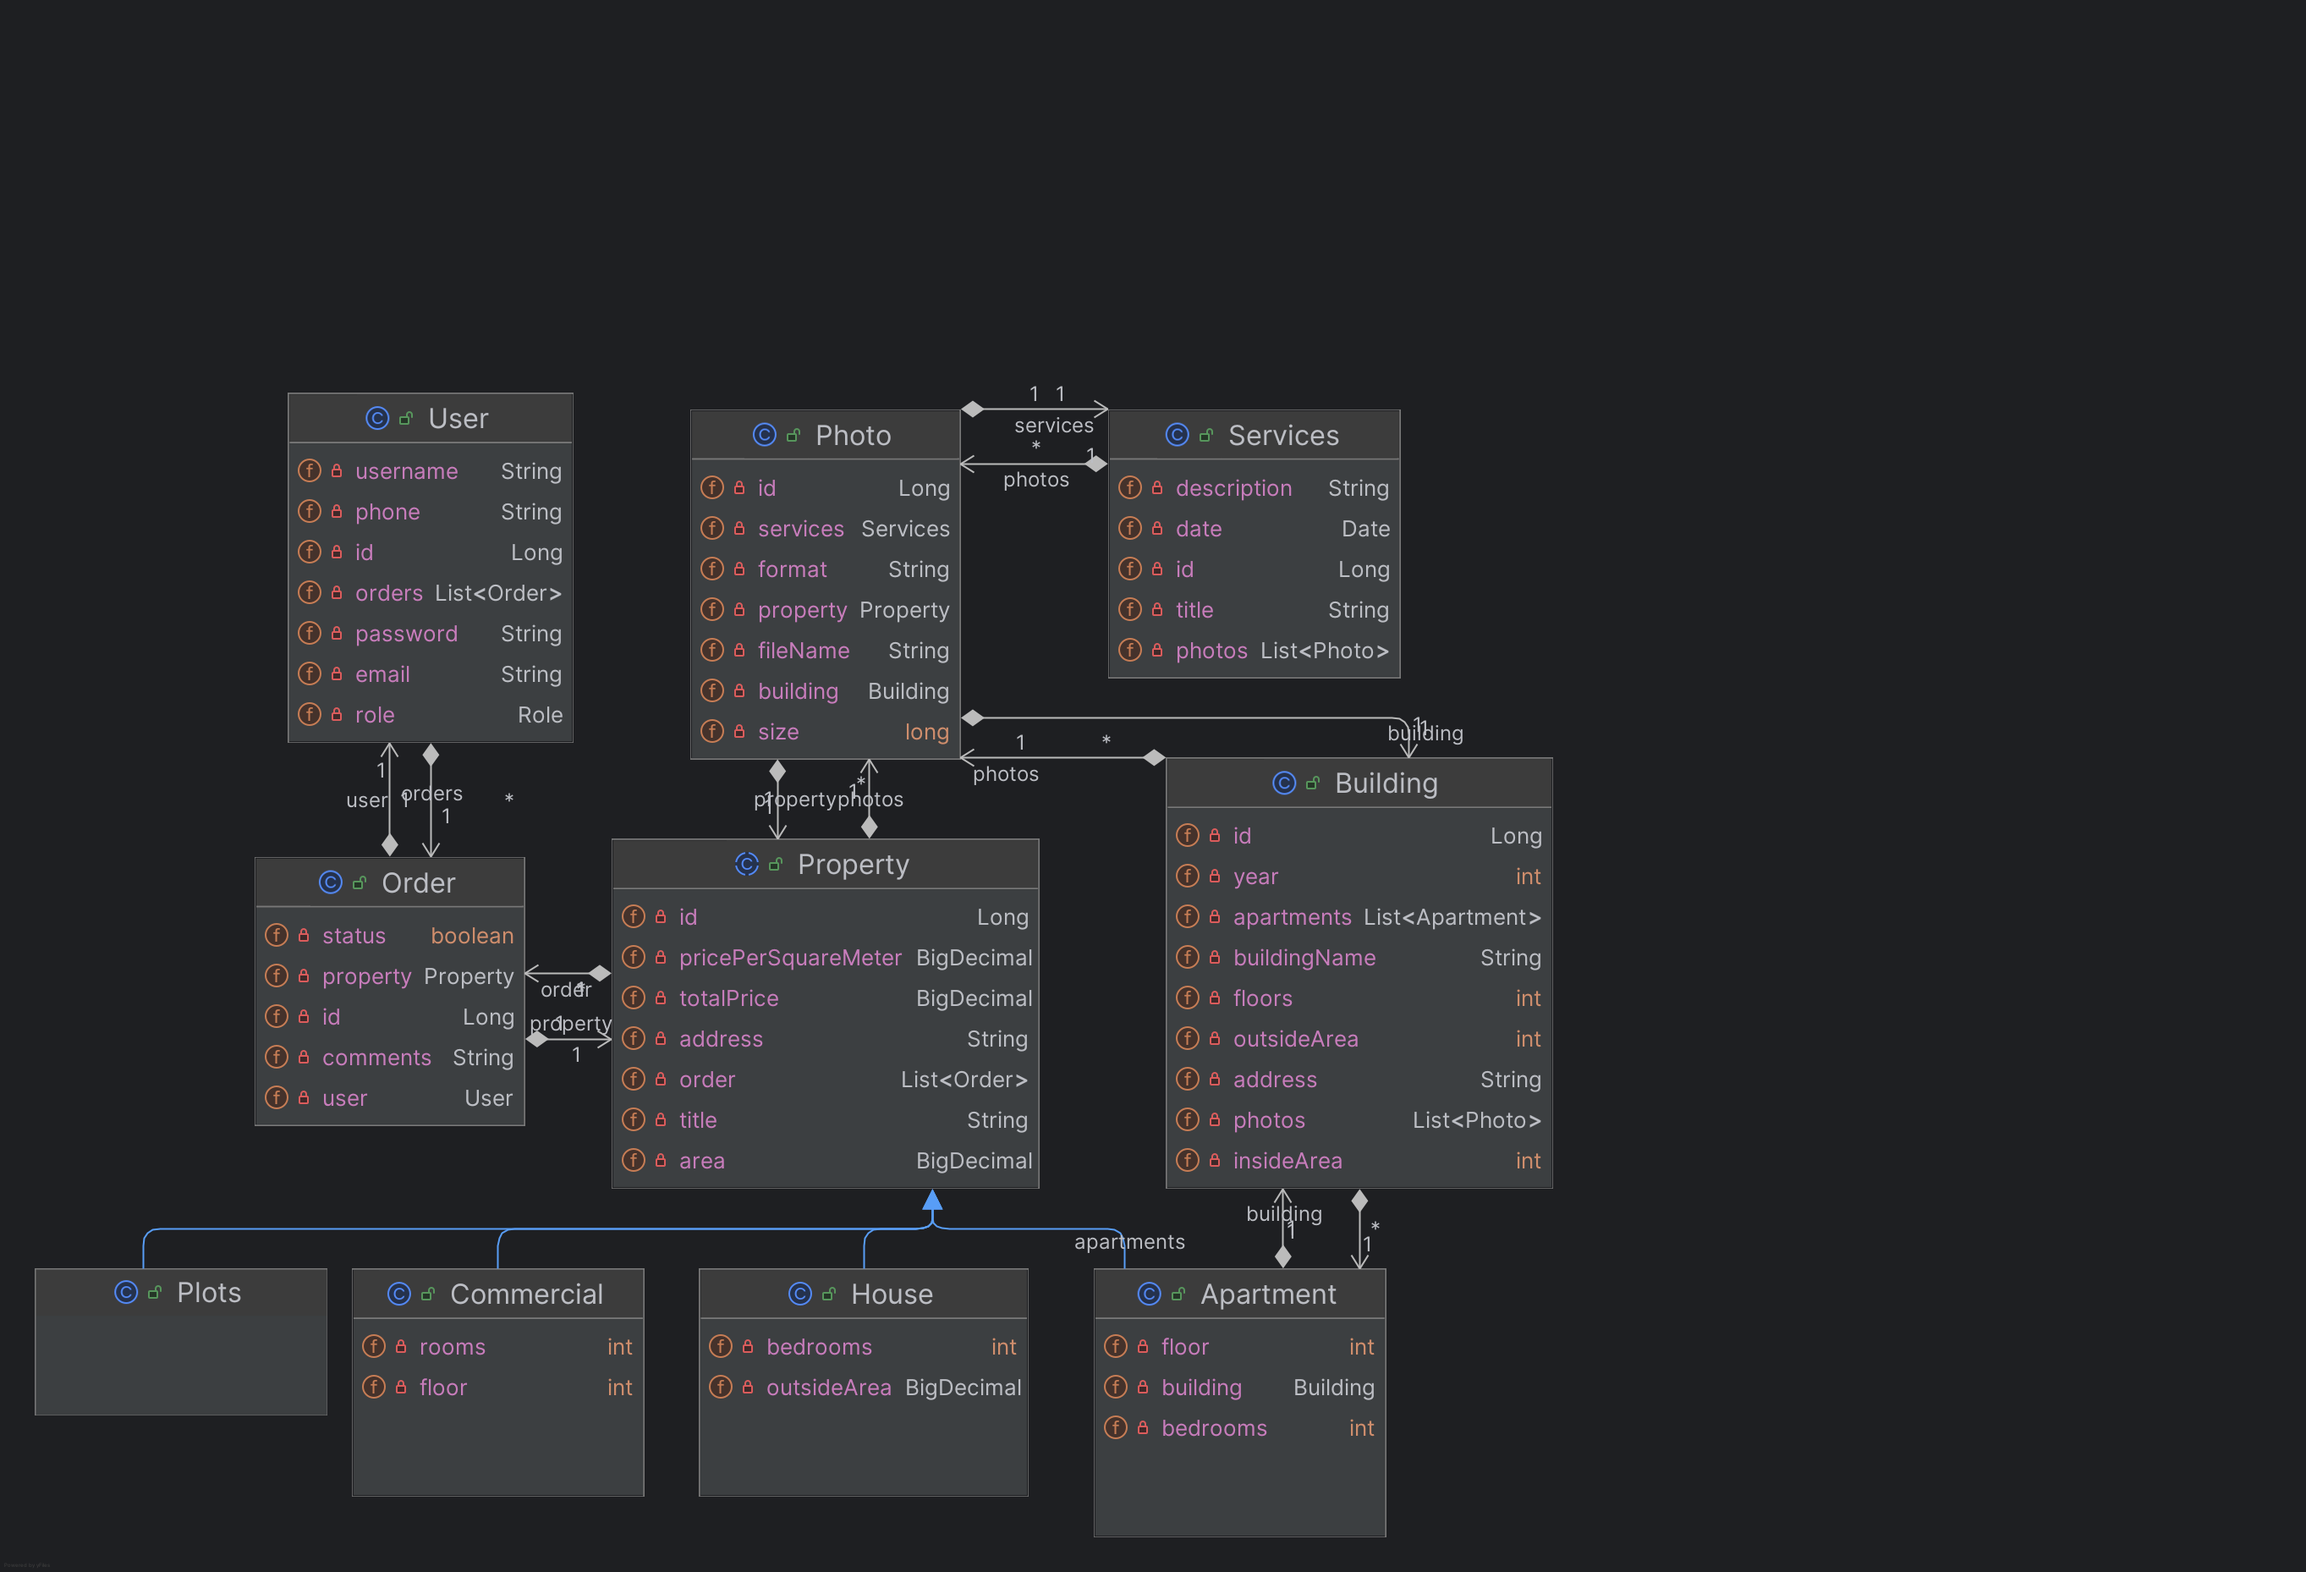
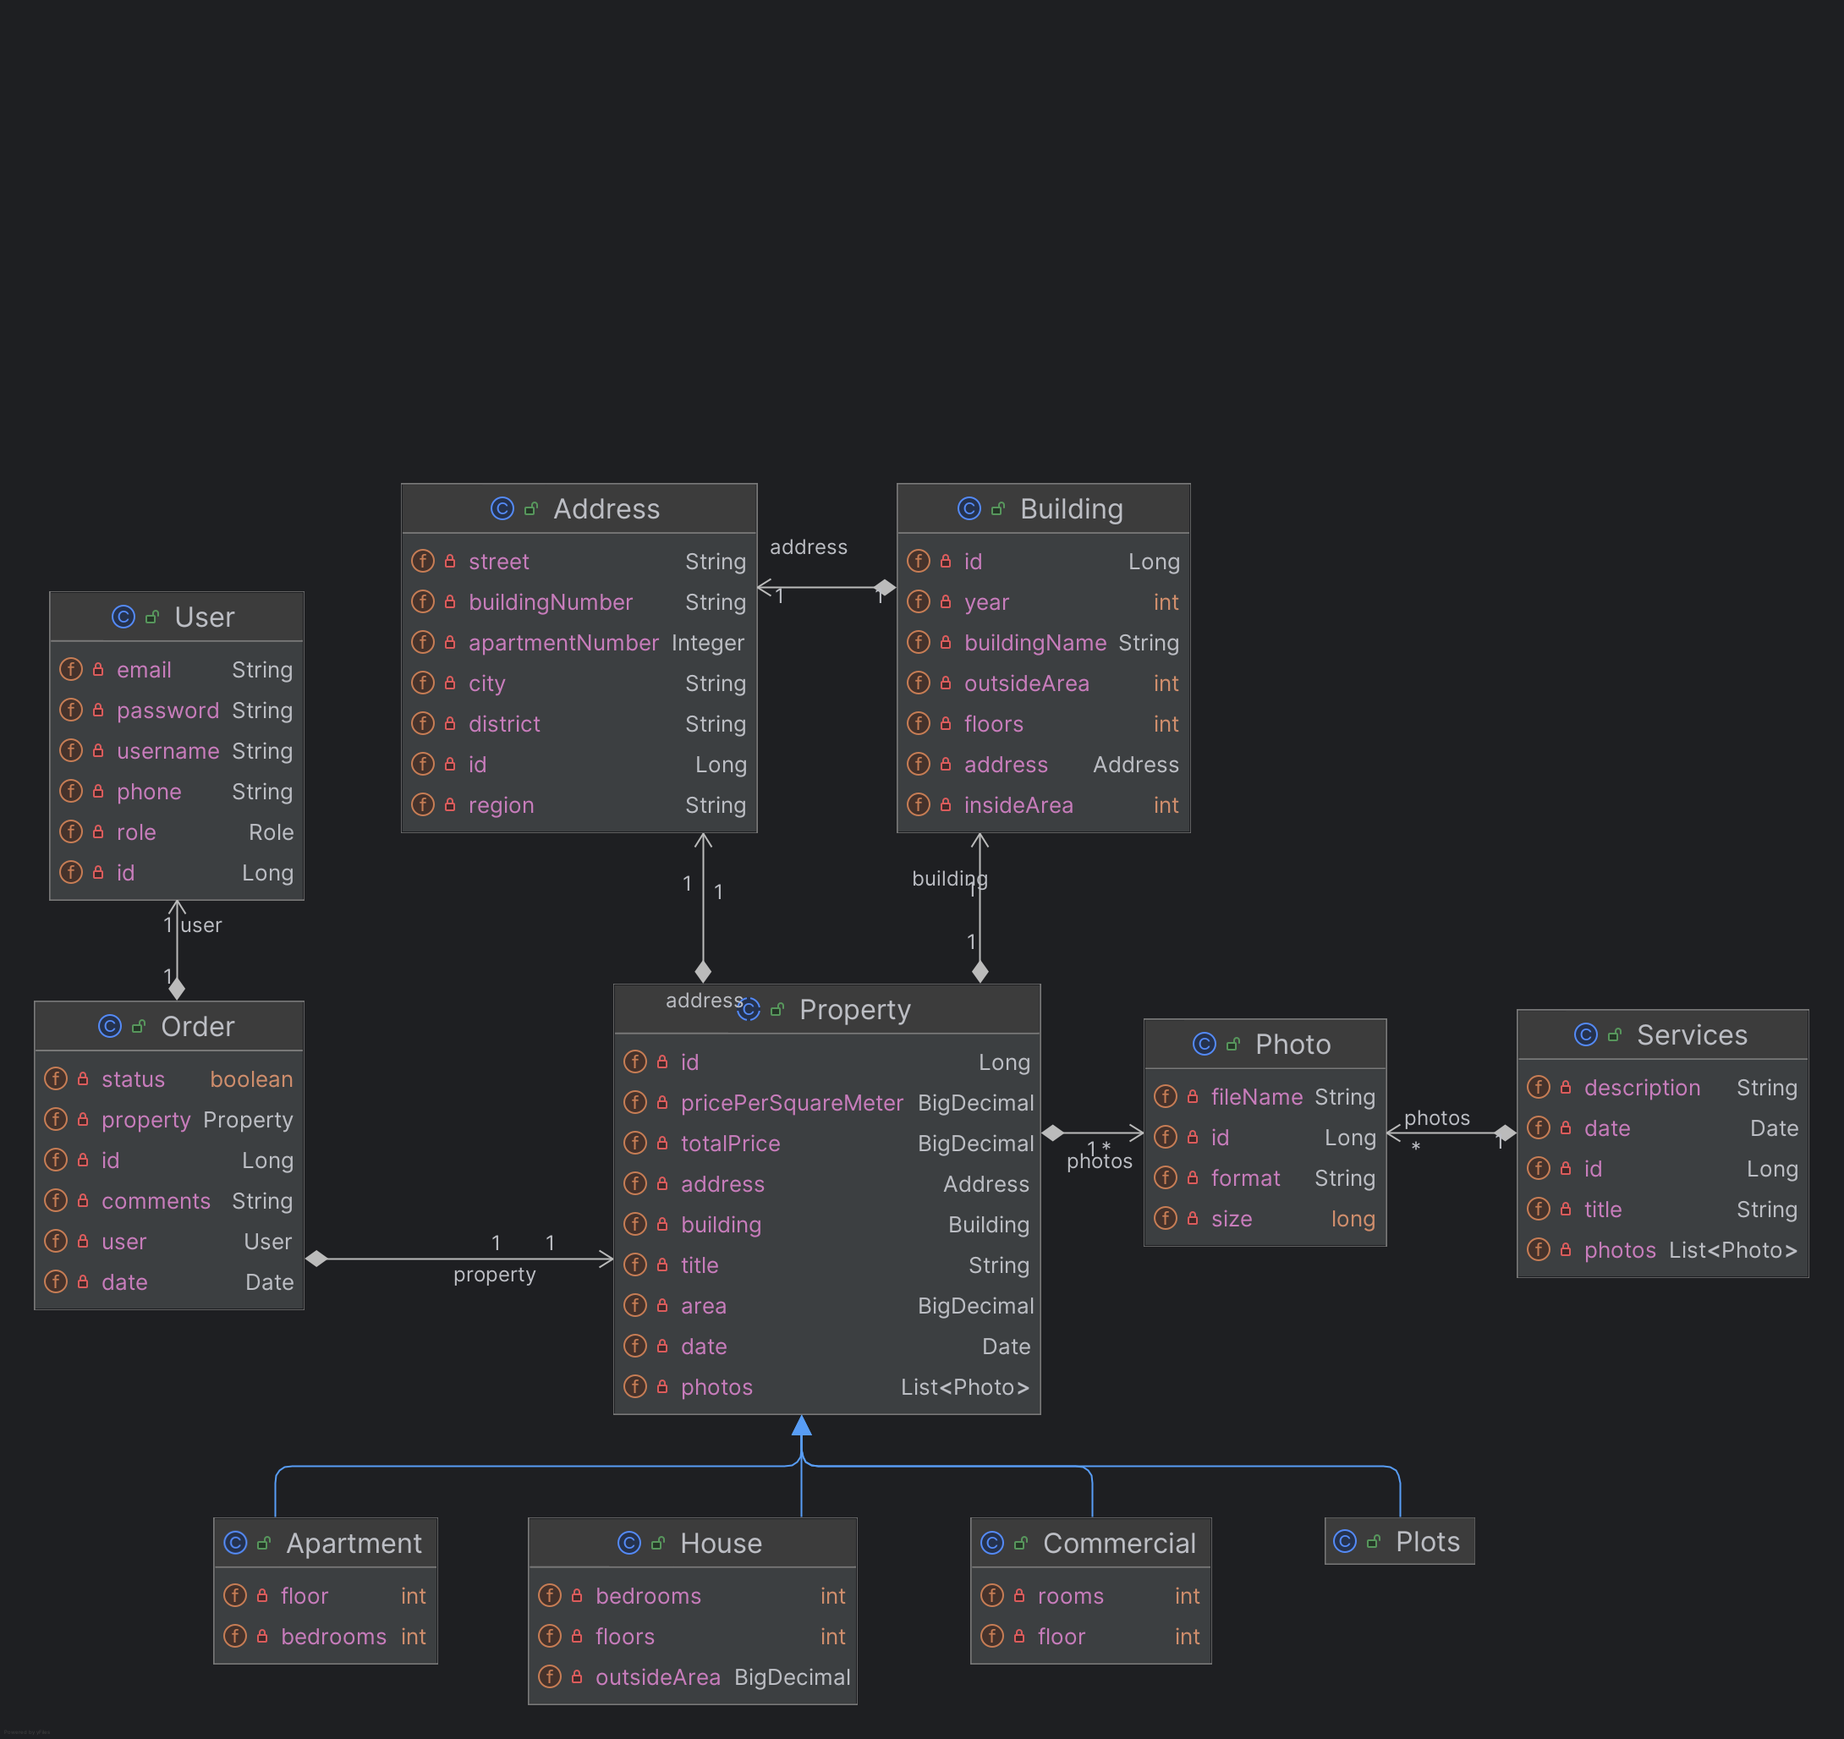
rename order -> ViewingRequest

Changed region(s): [[0.0, 0.2497, 0.9982, 0.9989], [0.7174, 0.8428, 0.811, 0.9053]]

diff --git a/src/main/java/org/example/rent/services/ViewingRequestService.java b/src/main/java/org/example/rent/services/ViewingRequestService.java
@@ -1,0 +1,69 @@
+package org.example.rent.services;
+
+import org.apache.logging.log4j.Logger;
+import org.example.rent.dto.ViewingRequestDTO;
+import org.example.rent.entity.ViewingRequest;
+import org.example.rent.exceptions.NotFoundException;
+import org.example.rent.other.CustomLogger;
+import org.example.rent.repositories.interfaces.ViewingRequestRepository;
+import org.example.rent.services.mappers.ViewingRequestMapper;
+import org.springframework.stereotype.Service;
+import org.springframework.transaction.annotation.Transactional;
+
+import java.util.List;
+import java.util.stream.Collectors;
+
+@Service
+public class ViewingRequestService {
+
+    private final ViewingRequestRepository viewingRequestRepository;
+    private final ViewingRequestMapper viewingRequestMapper;
+    private final Logger log = CustomLogger.getLog();
+
+    public ViewingRequestService(ViewingRequestRepository viewingRequestRepository, ViewingRequestMapper viewingRequestMapper) {
+        this.viewingRequestRepository = viewingRequestRepository;
+        this.viewingRequestMapper = viewingRequestMapper;
+    }
+
+    //getById(Long id)
+    public ViewingRequestDTO getById(Long id) {
+        ViewingRequest viewingRequest = viewingRequestRepository.findById(id).orElseThrow(() -> new NotFoundException("Order with id: " + id + " not found"));
+        log.info("Get order with id: " + id);
+        return viewingRequestMapper.toDtoWithRelations(viewingRequest);
+    }
+
+    //getAll()
+    public List<ViewingRequestDTO> getAll() {
+        List<ViewingRequest> viewingRequests = viewingRequestRepository.findAll();
+        log.info("Get all orders: " + viewingRequests);
+        return viewingRequests.stream().map(viewingRequestMapper::toDtoWithRelations).collect(Collectors.toList());
+    }
+
+    //save(DTO dto)
+    @Transactional
+    public void save(ViewingRequestDTO viewingRequestDTO) {
+        ViewingRequest viewingRequest = viewingRequestMapper.toEntityWithRelations(viewingRequestDTO);
+        viewingRequestRepository.save(viewingRequest);
+        log.info("Save order with id: " + viewingRequest.getId());
+    }
+
+    //delete(Long id)
+    @Transactional
+    public void delete(Long id) {
+        if (!viewingRequestRepository.existsById(id))
+            throw new NotFoundException("Order with id: " + id + " not found");
+        viewingRequestRepository.deleteById(id);
+        log.info("Delete order with id: " + id);
+    }
+
+    //update(Long id, DTO dto)
+    @Transactional
+    public void update(Long id, ViewingRequestDTO viewingRequestDTO) {
+        if (!viewingRequestRepository.existsById(id))
+            throw new NotFoundException("Order with id: " + id + " not found");
+        ViewingRequest viewingRequest = viewingRequestMapper.toEntityWithRelations(viewingRequestDTO);
+        viewingRequest.setId(id);
+        viewingRequestRepository.save(viewingRequest);
+        log.info("Update order with id: " + id);
+    }
+}

diff --git a/src/main/java/org/example/rent/services/mappers/ViewingRequestMapper.java b/src/main/java/org/example/rent/services/mappers/ViewingRequestMapper.java
@@ -1,9 +1,9 @@
 package org.example.rent.services.mappers;
 
-import org.example.rent.dto.OrderDTO;
+import org.example.rent.dto.ViewingRequestDTO;
 import org.example.rent.dto.UserDTO;
 import org.example.rent.dto.propertydto.PropertyDTO;
-import org.example.rent.entity.Order;
+import org.example.rent.entity.ViewingRequest;
 import org.example.rent.services.mappers.property.PropertyMapper;
 import org.example.rent.entity.User;
 import org.example.rent.entity.property.Property;
@@ -13,14 +13,14 @@ import org.mapstruct.Mapping;
 @Mapper(componentModel = "spring" , uses = {
         PropertyMapper.class,
         UserMapper.class})
-public interface OrderMapper {
+public interface ViewingRequestMapper {
     @Mapping(target = "id", ignore = true)
     @Mapping(target = "user", ignore = true)
     @Mapping(target = "property", ignore = true)
-    Order toEntity(OrderDTO dto);
+    ViewingRequest toEntity(ViewingRequestDTO dto);
 
-    default Order toEntityWithRelations(OrderDTO dto) {
-        Order entity = toEntity(dto);
+    default ViewingRequest toEntityWithRelations(ViewingRequestDTO dto) {
+        ViewingRequest entity = toEntity(dto);
         User user = userMapper().toEntity(dto.getUser());
         entity.setUser(user);
         if (dto.getProperty() != null) {
@@ -32,10 +32,10 @@ public interface OrderMapper {
 
     @Mapping(target = "user", ignore = true)
     @Mapping(target = "property", ignore = true)
-    OrderDTO toDto(Order order);
+    ViewingRequestDTO toDto(ViewingRequest viewingRequest);
 
-    default OrderDTO toDtoWithRelations(Order entity){
-        OrderDTO dto = toDto(entity);
+    default ViewingRequestDTO toDtoWithRelations(ViewingRequest entity){
+        ViewingRequestDTO dto = toDto(entity);
         UserDTO user = userMapper().toDto(entity.getUser());
         dto.setUser(user);
         if (entity.getProperty() != null) {

diff --git a/src/main/java/org/example/rent/services/mappers/property/PropertyMapper.java b/src/main/java/org/example/rent/services/mappers/property/PropertyMapper.java
@@ -2,7 +2,6 @@ package org.example.rent.services.mappers.property;
 
 import org.example.rent.dto.AddressDTO;
 import org.example.rent.dto.BuildingDTO;
-import org.example.rent.dto.OrderDTO;
 import org.example.rent.dto.PhotoDTO;
 import org.example.rent.dto.propertydto.ApartmentDTO;
 import org.example.rent.dto.propertydto.CommercialDTO;
@@ -10,7 +9,6 @@ import org.example.rent.dto.propertydto.HouseDTO;
 import org.example.rent.dto.propertydto.PlotsDTO;
 import org.example.rent.entity.Address;
 import org.example.rent.entity.Building;
-import org.example.rent.entity.Order;
 import org.example.rent.entity.Photo;
 import org.example.rent.entity.property.Apartment;
 import org.example.rent.entity.property.House;
@@ -18,7 +16,6 @@ import org.example.rent.entity.property.Commercial;
 import org.example.rent.entity.property.Plots;
 import org.example.rent.services.mappers.AddressMapper;
 import org.example.rent.services.mappers.BuildingMapper;
-import org.example.rent.services.mappers.OrderMapper;
 import org.example.rent.services.mappers.PhotoMapper;
 import org.mapstruct.Mapping;
 import org.mapstruct.Mapper;

diff --git a/src/main/java/org/example/rent/services/mappers/UserMapper.java b/src/main/java/org/example/rent/services/mappers/UserMapper.java
@@ -1,13 +1,9 @@
 package org.example.rent.services.mappers;
 
-import org.example.rent.dto.OrderDTO;
 import org.example.rent.entity.User;
 import org.example.rent.dto.UserDTO;
-import org.example.rent.entity.Order;
 import org.mapstruct.Mapper;
 import org.mapstruct.Mapping;
-
-import java.util.List;
 
 @Mapper(componentModel = "spring")
 public interface UserMapper {

diff --git a/src/main/java/org/example/rent/dto/propertydto/CommercialDTO.java b/src/main/java/org/example/rent/dto/propertydto/CommercialDTO.java
@@ -3,10 +3,6 @@ package org.example.rent.dto.propertydto;
 import jakarta.validation.constraints.NotNull;
 import lombok.Data;
 import lombok.EqualsAndHashCode;
-import org.example.rent.dto.OrderDTO;
-import org.example.rent.dto.PhotoDTO;
-
-import java.util.List;
 
 @Data
 @EqualsAndHashCode(callSuper = true)

diff --git a/src/main/java/org/example/rent/repositories/interfaces/ViewingRequestRepository.java b/src/main/java/org/example/rent/repositories/interfaces/ViewingRequestRepository.java
@@ -1,0 +1,7 @@
+package org.example.rent.repositories.interfaces;
+
+import org.example.rent.entity.ViewingRequest;
+import org.springframework.data.jpa.repository.JpaRepository;
+
+public interface ViewingRequestRepository extends JpaRepository<ViewingRequest, Long> {
+}

diff --git a/src/main/java/org/example/rent/dto/propertydto/PropertyDTO.java b/src/main/java/org/example/rent/dto/propertydto/PropertyDTO.java
@@ -5,7 +5,6 @@ import lombok.Data;
 import lombok.EqualsAndHashCode;
 import org.example.rent.dto.AddressDTO;
 import org.example.rent.dto.BuildingDTO;
-import org.example.rent.dto.OrderDTO;
 import org.example.rent.dto.PhotoDTO;
 
 import java.math.BigDecimal;

diff --git a/src/main/java/org/example/rent/entity/property/Property.java b/src/main/java/org/example/rent/entity/property/Property.java
@@ -4,7 +4,6 @@ import jakarta.persistence.*;
 import lombok.*;
 import org.example.rent.entity.Address;
 import org.example.rent.entity.Building;
-import org.example.rent.entity.Order;
 import org.example.rent.entity.Photo;
 
 import java.math.BigDecimal;

diff --git a/src/main/java/org/example/rent/entity/ViewingRequest.java b/src/main/java/org/example/rent/entity/ViewingRequest.java
@@ -11,7 +11,7 @@ import java.sql.Date;
 @Setter
 @EqualsAndHashCode(onlyExplicitlyIncluded = true)
 @NoArgsConstructor
-public class Order {
+public class ViewingRequest {
 
     @Id
     @GeneratedValue(strategy = GenerationType.IDENTITY)

diff --git a/src/main/java/org/example/rent/dto/ViewingRequestDTO.java b/src/main/java/org/example/rent/dto/ViewingRequestDTO.java
@@ -9,7 +9,7 @@ import java.sql.Date;
 
 @Data
 @EqualsAndHashCode(onlyExplicitlyIncluded = true)
-public class OrderDTO {
+public class ViewingRequestDTO {
 
     @EqualsAndHashCode.Include
     private Long id;
